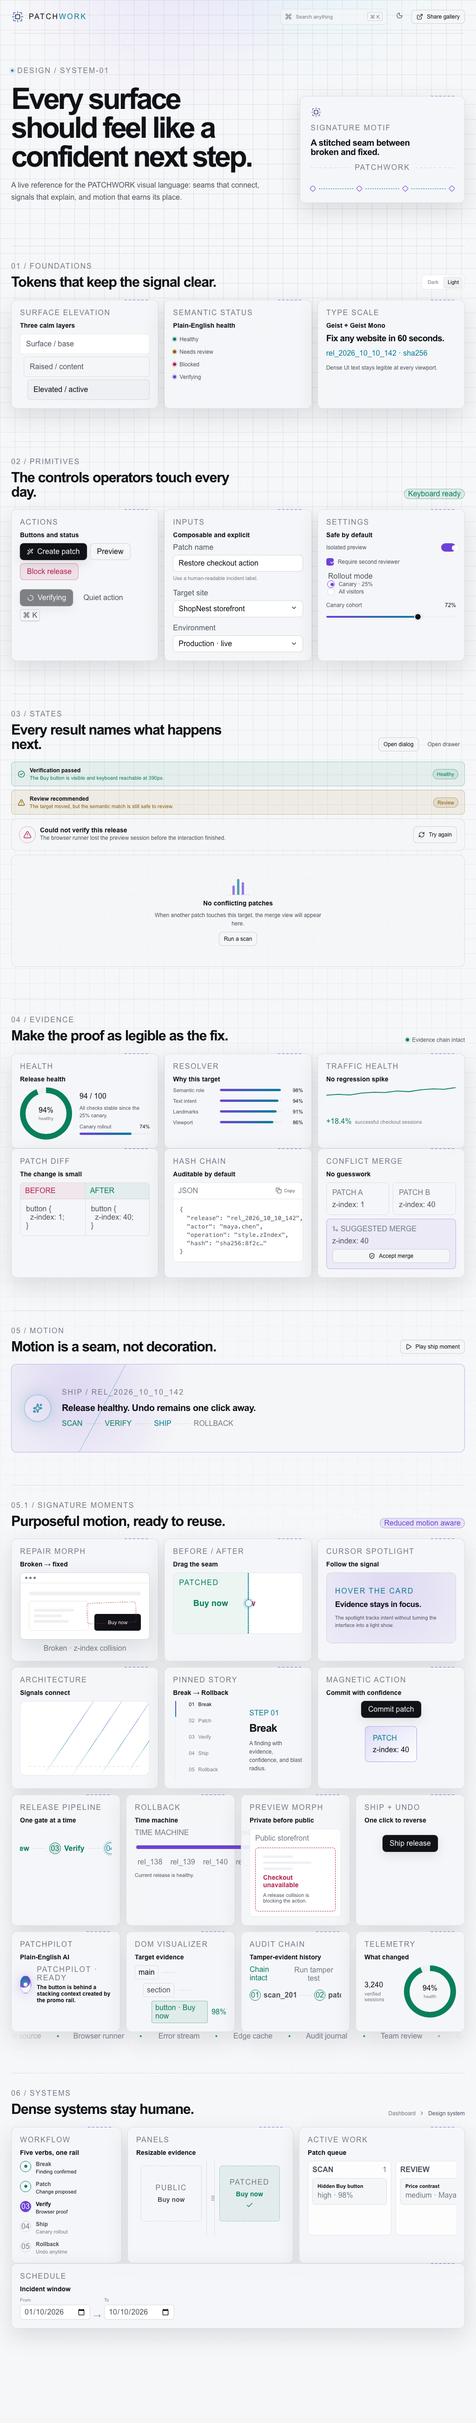
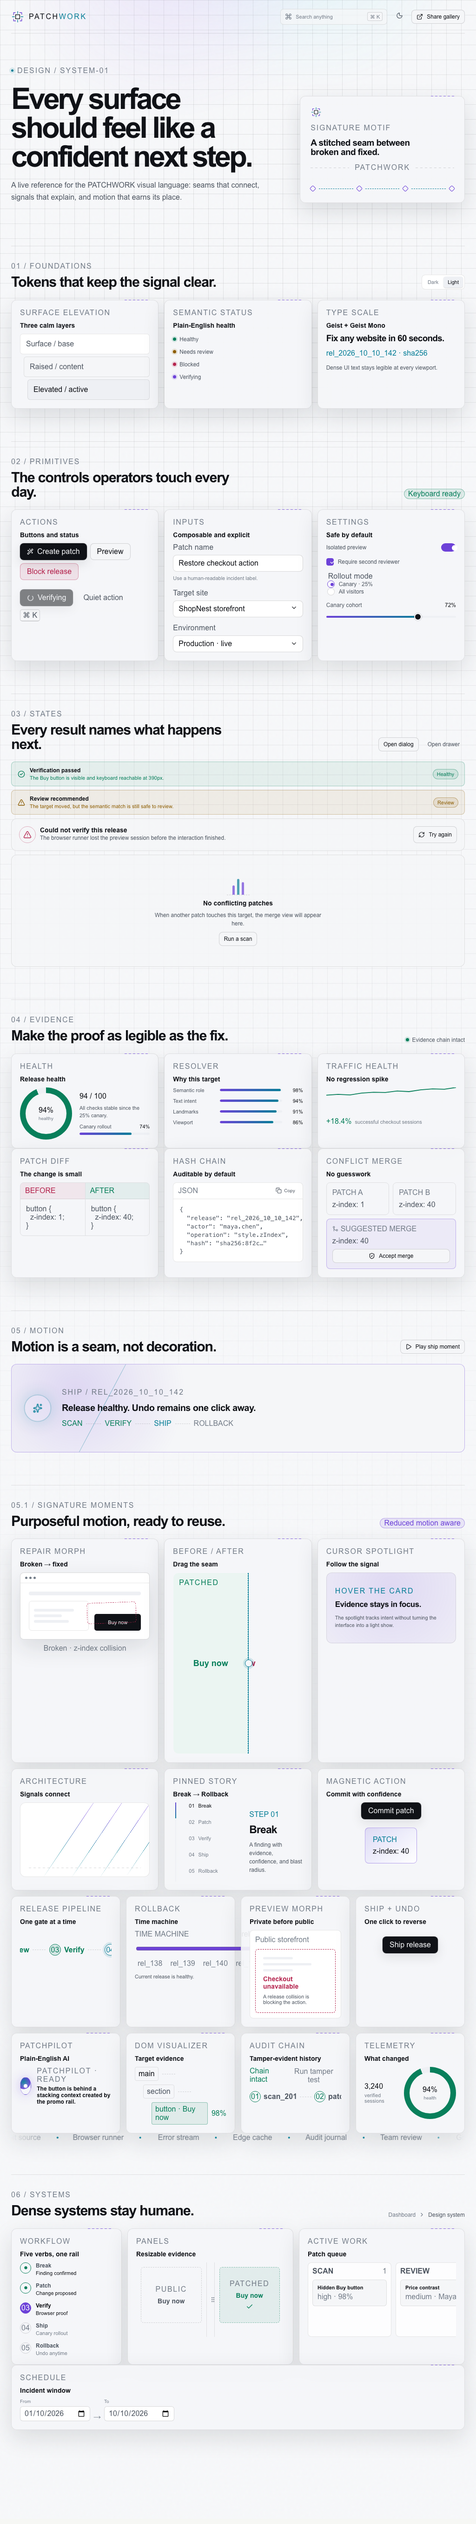
feat(web): add PATCHWORK marketing demo

diff --git a/apps/web/src/marketing.css b/apps/web/src/marketing.css
@@ -1,0 +1,13 @@
+.pw-marketing-shell { --pw-mkt-ink: #08090d; --pw-mkt-surface: #11131a; --pw-mkt-raised: #171a23; --pw-mkt-text: #f5f4fb; --pw-mkt-muted: #9a9da9; --pw-mkt-faint: #686b78; --pw-mkt-violet: #9d7cff; --pw-mkt-cyan: #68d8e9; --pw-mkt-green: #93d6a6; position: relative; overflow: hidden; min-height: 100vh; background: var(--pw-mkt-ink); color: var(--pw-mkt-text); font-family: var(--font-geist-sans), Inter, sans-serif; }
+.pw-marketing-shell::before { position: absolute; inset: 0; pointer-events: none; background-image: linear-gradient(rgba(255,255,255,.035) 1px, transparent 1px), linear-gradient(90deg, rgba(255,255,255,.035) 1px, transparent 1px); background-size: 56px 56px; mask-image: linear-gradient(to bottom, black 0, transparent 48%); content: ""; }
+.pw-marketing-shell::after { position: absolute; z-index: 0; top: 0; left: 26%; width: 600px; height: 500px; pointer-events: none; background: radial-gradient(circle, rgba(125,91,255,.18), transparent 68%); filter: blur(14px); content: ""; }
+.pw-marketing-shell > * { position: relative; z-index: 1; }.pw-marketing-nav, .pw-marketing-hero, .pw-marketing-proof-strip, .pw-marketing-demo, .pw-marketing-repair, .pw-marketing-stories, .pw-marketing-footer { width: min(1180px, calc(100% - 64px)); margin-inline: auto; }.pw-marketing-nav { display: flex; align-items: center; justify-content: space-between; min-height: 76px; border-bottom: 1px dashed rgba(255,255,255,.13); }.pw-marketing-nav nav { display: flex; gap: 28px; margin-left: 80px; }.pw-marketing-nav nav a, .pw-marketing-text-link, .pw-marketing-footer > span { color: var(--pw-mkt-muted); font-size: 12px; }.pw-marketing-nav nav a:hover, .pw-marketing-text-link:hover { color: var(--pw-mkt-text); }.pw-marketing-nav-actions { display: flex; align-items: center; gap: 20px; }.pw-marketing-logo { display: inline-flex; align-items: center; gap: 9px; color: var(--pw-mkt-text); font: 600 14px/1 var(--font-geist-mono), monospace; letter-spacing: .16em; }.pw-marketing-logo > span:last-child span { color: var(--pw-mkt-cyan); }.pw-marketing-logo-mark { display: grid; place-items: center; width: 25px; height: 25px; border: 1px solid var(--pw-mkt-violet); border-radius: 6px; transform: rotate(45deg); }.pw-marketing-logo-mark span { width: 9px; height: 9px; border: 1px solid var(--pw-mkt-cyan); background: var(--pw-mkt-violet); }.pw-marketing-button { display: inline-flex; align-items: center; justify-content: center; gap: 8px; border: 1px solid transparent; border-radius: 7px; padding: 12px 16px; background: var(--pw-mkt-text); color: #11121a; font-size: 12px; font-weight: 650; transition: transform .2s ease, box-shadow .2s ease; }.pw-marketing-button:hover { transform: translateY(-2px); box-shadow: 0 10px 28px rgba(255,255,255,.12); }.pw-marketing-button-small { padding: 9px 12px; font-size: 11px; }.pw-marketing-text-link, .pw-marketing-quiet-link { display: inline-flex; align-items: center; gap: 7px; }.pw-marketing-quiet-link { color: var(--pw-mkt-muted); font-size: 12px; }.pw-marketing-quiet-link:hover { color: var(--pw-mkt-text); }
+.pw-marketing-hero { display: grid; grid-template-columns: minmax(0, .92fr) minmax(0, 1.08fr); align-items: center; gap: 70px; padding: 112px 0 100px; }.pw-marketing-hero-copy { position: relative; z-index: 1; }.pw-marketing-kicker { display: inline-flex; align-items: center; gap: 8px; color: var(--pw-mkt-faint); font: 10px/1.2 var(--font-geist-mono), monospace; letter-spacing: .12em; text-transform: uppercase; }.pw-marketing-pulse { width: 6px; height: 6px; border-radius: 50%; background: var(--pw-mkt-cyan); box-shadow: 0 0 0 4px rgba(104,216,233,.12); }.pw-marketing-hero h1 { max-width: 620px; margin-top: 22px; color: var(--pw-mkt-text); font-size: clamp(54px, 7.7vw, 105px); font-weight: 580; letter-spacing: -.085em; line-height: .94; }.pw-marketing-hero h1 em, .pw-marketing-repair h2 em, .pw-marketing-stories h2 em { color: var(--pw-mkt-violet); font-family: Georgia, serif; font-style: italic; font-weight: 400; letter-spacing: -.06em; }.pw-marketing-hero-copy > p { max-width: 495px; margin-top: 25px; color: var(--pw-mkt-muted); font-size: 16px; line-height: 1.65; }.pw-marketing-hero-actions { display: flex; align-items: center; flex-wrap: wrap; gap: 20px; margin-top: 33px; }.pw-marketing-hero-note { display: inline-flex; align-items: center; gap: 8px; margin-top: 27px; color: var(--pw-mkt-faint); font: 10px/1.3 var(--font-geist-mono), monospace; }.pw-marketing-hero-note svg { color: var(--pw-mkt-green); }
+.pw-marketing-hero-art { position: relative; min-height: 480px; border: 1px solid rgba(255,255,255,.13); border-radius: 16px; background: radial-gradient(circle at 52% 42%, rgba(157,124,255,.18), transparent 40%), var(--pw-mkt-surface); box-shadow: 0 32px 90px rgba(0,0,0,.3); }.pw-art-grid { position: absolute; inset: 0; opacity: .45; background-image: linear-gradient(rgba(255,255,255,.06) 1px, transparent 1px), linear-gradient(90deg, rgba(255,255,255,.06) 1px, transparent 1px); background-size: 34px 34px; mask-image: radial-gradient(circle, black 20%, transparent 75%); }.pw-art-window { position: absolute; top: 86px; left: 58px; width: calc(100% - 116px); overflow: hidden; border: 1px solid rgba(255,255,255,.16); border-radius: 10px; background: #f7f8fb; color: #171923; box-shadow: 0 20px 50px rgba(0,0,0,.35); transform: rotate(-3deg); }.pw-art-window-bar { display: flex; align-items: center; gap: 5px; height: 30px; padding: 0 10px; border-bottom: 1px solid #e1e4ea; background: #eef0f5; }.pw-art-window-bar > span { width: 6px; height: 6px; border-radius: 50%; background: #ff8278; }.pw-art-window-bar > span:nth-child(2) { background: #f3c25f; }.pw-art-window-bar > span:nth-child(3) { background: #7bd39e; }.pw-art-window-bar code { margin-left: 8px; color: #969aa6; font: 8px/1 var(--font-geist-mono), monospace; }.pw-art-page { position: relative; display: grid; gap: 13px; min-height: 278px; padding: 22px 30px; }.pw-art-line { display: block; width: 42%; height: 6px; border-radius: 8px; background: #d8dce5; }.pw-art-line-wide { width: 68%; }.pw-art-line-short { width: 72px; }.pw-art-product { display: grid; grid-template-columns: 1fr 1fr; gap: 25px; align-items: center; margin-top: 8px; }.pw-art-product > div { height: 165px; border-radius: 8px; background: linear-gradient(145deg, #c8d4f7, #8a8ee2 55%, #4d486f); }.pw-art-product section { display: grid; gap: 10px; }.pw-art-price { display: block; font: 650 27px/1 var(--font-geist-mono), monospace; }.pw-art-buy { display: block; width: 130px; padding: 10px; border-radius: 4px; background: #171923; color: white; font: 10px/1 var(--font-geist-mono), monospace; text-align: center; }.pw-art-buy-broken { position: relative; }.pw-art-buy-broken::after { position: absolute; inset: -4px; border: 1px dashed #ee7c7b; border-radius: 5px; content: ""; }.pw-art-overlay { position: absolute; right: 21px; bottom: 50px; border: 1px solid #ef8d8a; border-radius: 4px; padding: 6px 8px; background: #fff1f0; color: #c75e5c; font: 8px/1 var(--font-geist-mono), monospace; }.pw-art-patch { position: absolute; right: 15px; bottom: 49px; display: flex; align-items: center; gap: 9px; border: 1px solid rgba(104,216,233,.35); border-radius: 9px; padding: 11px 12px; background: rgba(17,19,26,.92); color: var(--pw-mkt-cyan); box-shadow: 0 16px 34px rgba(0,0,0,.3); transform: translateX(16%); }.pw-art-patch span { display: grid; gap: 4px; }.pw-art-patch strong { color: var(--pw-mkt-text); font-size: 10px; }.pw-art-patch small { color: var(--pw-mkt-muted); font: 8px/1 var(--font-geist-mono), monospace; }.pw-art-seam { position: absolute; width: 80px; border-top: 1px dashed var(--pw-mkt-cyan); opacity: .8; }.pw-art-seam-one { top: 47%; left: 8%; transform: rotate(-25deg); }.pw-art-seam-two { right: 10%; top: 34%; transform: rotate(28deg); }
+.pw-marketing-proof-strip { display: grid; grid-template-columns: repeat(4, 1fr); border-top: 1px solid rgba(255,255,255,.12); border-bottom: 1px solid rgba(255,255,255,.12); }.pw-marketing-proof-strip div { display: grid; gap: 8px; padding: 23px 28px; border-right: 1px solid rgba(255,255,255,.12); }.pw-marketing-proof-strip div:last-child { border-right: 0; }.pw-marketing-proof-strip strong { color: var(--pw-mkt-text); font: 600 25px/1 var(--font-geist-mono), monospace; letter-spacing: -.06em; }.pw-marketing-proof-strip span { color: var(--pw-mkt-faint); font-size: 11px; }
+.pw-marketing-demo, .pw-marketing-repair, .pw-marketing-stories { padding: 140px 0; }.pw-marketing-section-heading { max-width: 550px; }.pw-marketing-section-heading h2 { margin-top: 17px; color: var(--pw-mkt-text); font-size: clamp(36px, 5vw, 68px); font-weight: 560; letter-spacing: -.075em; line-height: .98; }.pw-marketing-section-heading p { margin-top: 19px; color: var(--pw-mkt-muted); font-size: 14px; line-height: 1.65; }.pw-demo-frame { margin-top: 50px; overflow: hidden; border: 1px solid rgba(255,255,255,.13); border-radius: 12px; background: var(--pw-mkt-surface); box-shadow: 0 30px 70px rgba(0,0,0,.25); }.pw-demo-topbar { display: flex; align-items: center; justify-content: space-between; min-height: 49px; border-bottom: 1px solid rgba(255,255,255,.1); padding: 0 18px; color: var(--pw-mkt-muted); font: 10px/1 var(--font-geist-mono), monospace; }.pw-demo-topbar > div, .pw-demo-timer { display: inline-flex; align-items: center; gap: 8px; }.pw-demo-status-dot { width: 6px; height: 6px; border-radius: 50%; background: var(--pw-mkt-green); box-shadow: 0 0 0 4px rgba(147,214,166,.12); }.pw-demo-body { display: grid; grid-template-columns: 185px 1fr; min-height: 490px; }.pw-demo-stage-rail { display: grid; align-content: start; gap: 8px; padding: 28px 18px; border-right: 1px solid rgba(255,255,255,.1); }.pw-demo-stage { display: grid; grid-template-columns: 24px 1fr; gap: 6px 9px; padding: 11px 8px; border: 1px solid transparent; border-radius: 7px; color: var(--pw-mkt-faint); }.pw-demo-stage.is-active { border-color: rgba(157,124,255,.35); background: rgba(157,124,255,.1); color: var(--pw-mkt-text); }.pw-demo-stage > span { display: grid; place-items: center; width: 22px; height: 22px; grid-row: span 2; border: 1px solid currentColor; border-radius: 50%; font: 8px/1 var(--font-geist-mono), monospace; }.pw-demo-stage.is-active > span { color: var(--pw-mkt-cyan); }.pw-demo-stage strong { font: 10px/1 var(--font-geist-mono), monospace; }.pw-demo-stage small { color: var(--pw-mkt-faint); font-size: 9px; line-height: 1.3; }.pw-demo-workspace { display: grid; align-content: start; gap: 22px; padding: 28px; }.pw-demo-heading { display: flex; align-items: start; justify-content: space-between; gap: 20px; }.pw-demo-kicker { color: var(--pw-mkt-faint); font: 9px/1 var(--font-geist-mono), monospace; letter-spacing: .1em; }.pw-demo-heading h3 { margin-top: 10px; color: var(--pw-mkt-text); font-size: 24px; letter-spacing: -.05em; }.pw-demo-heading p { margin-top: 7px; color: var(--pw-mkt-muted); font-size: 11px; line-height: 1.45; }.pw-demo-state { display: inline-flex; align-items: center; gap: 6px; color: var(--pw-mkt-muted); font: 9px/1 var(--font-geist-mono), monospace; white-space: nowrap; }.pw-demo-state > span { width: 5px; height: 5px; border-radius: 50%; background: var(--pw-mkt-muted); }.pw-demo-state-amber > span { background: #efc56c; }.pw-demo-state-violet > span { background: var(--pw-mkt-violet); }.pw-demo-state-green > span { background: var(--pw-mkt-green); }.pw-demo-card { display: grid; grid-template-columns: minmax(260px, .92fr) minmax(220px, 1.08fr); gap: 22px; align-items: center; }.pw-demo-site-preview { position: relative; min-height: 250px; overflow: hidden; border: 1px solid rgba(255,255,255,.12); border-radius: 9px; padding: 17px; background: #f4f6f9; color: #171923; }.pw-demo-preview-label { color: #969ba6; font: 8px/1 var(--font-geist-mono), monospace; }.pw-demo-preview-content { display: grid; grid-template-columns: 1fr 1fr; gap: 16px; align-items: center; height: 190px; }.pw-demo-product-shape { display: block; height: 135px; border-radius: 8px; background: linear-gradient(140deg, #bbc9f2, #7078cb 65%, #41405f); }.pw-demo-preview-content > div { display: grid; gap: 8px; }.pw-demo-copy-line { display: block; width: 74%; height: 5px; border-radius: 6px; background: #c7ccd6; }.pw-demo-copy-short { width: 45%; }.pw-demo-preview-content strong { margin-top: 7px; font: 650 21px/1 var(--font-geist-mono), monospace; }.pw-demo-preview-content button { width: 112px; border: 0; border-radius: 4px; padding: 9px; background: #171923; color: white; font: 9px/1 var(--font-geist-mono), monospace; }.pw-demo-preview-content button.is-covered { position: relative; }.pw-demo-preview-content button.is-covered::after { position: absolute; inset: -4px; border: 1px dashed #e07c7b; border-radius: 5px; content: ""; }.pw-demo-overlay-label, .pw-demo-repair-label { position: absolute; bottom: 16px; right: 16px; display: inline-flex; align-items: center; gap: 5px; border-radius: 4px; padding: 6px 7px; font: 8px/1 var(--font-geist-mono), monospace; }.pw-demo-overlay-label { border: 1px solid #ef9a97; background: #fff1f0; color: #c25f5d; }.pw-demo-repair-label { border: 1px solid #9bd6a8; background: #edf9ef; color: #4a9c5c; }.pw-demo-explanation { display: flex; align-items: start; gap: 9px; border: 1px solid rgba(157,124,255,.26); border-radius: 8px; padding: 14px; background: rgba(157,124,255,.07); }.pw-demo-explanation-icon { color: var(--pw-mkt-violet); }.pw-demo-explanation > div { display: grid; gap: 6px; }.pw-demo-explanation strong { color: var(--pw-mkt-text); font-size: 11px; }.pw-demo-explanation p { color: var(--pw-mkt-muted); font-size: 10px; line-height: 1.45; }.pw-demo-actions { display: flex; align-items: center; gap: 17px; }
+.pw-marketing-repair { display: grid; grid-template-columns: .72fr 1.28fr; gap: 80px; align-items: center; border-top: 1px dashed rgba(255,255,255,.13); }.pw-before-after { position: relative; min-height: 390px; overflow: hidden; border: 1px solid rgba(255,255,255,.13); border-radius: 12px; background: var(--pw-mkt-raised); }.pw-before-after-state { position: absolute; inset: 0; display: grid; align-content: end; gap: 15px; padding: 22px; }.pw-before-after-state > span { position: absolute; top: 20px; left: 22px; color: var(--pw-mkt-faint); font: 9px/1 var(--font-geist-mono), monospace; }.pw-before-state { background: linear-gradient(135deg, #2d2128, #171a23 70%); }.pw-after-state { z-index: 1; width: 100%; background: linear-gradient(135deg, #1b2c2c, #171a23 70%); }.pw-repair-layout { display: grid; grid-template-columns: .95fr 1fr; gap: 19px; align-items: center; }.pw-repair-layout > div { height: 190px; border-radius: 8px; background: linear-gradient(145deg, #505576, #8f8add 58%, #c3c8f4); }.pw-repair-layout section { display: grid; gap: 14px; }.pw-repair-layout strong { color: var(--pw-mkt-text); font: 650 30px/1 var(--font-geist-mono), monospace; }.pw-repair-button { display: inline-flex; align-items: center; gap: 5px; width: max-content; border-radius: 4px; padding: 11px 13px; background: #08090d; color: var(--pw-mkt-text); font: 9px/1 var(--font-geist-mono), monospace; }.pw-before-after-state p { color: var(--pw-mkt-muted); font: 10px/1.4 var(--font-geist-mono), monospace; }.pw-before-state p { color: #efaaa6; }.pw-after-state p { color: var(--pw-mkt-green); }.pw-slider-handle { position: absolute; z-index: 2; top: 0; bottom: 0; width: 2px; background: var(--pw-mkt-text); box-shadow: 0 0 0 1px rgba(0,0,0,.18); transform: translateX(-1px); pointer-events: none; }.pw-slider-handle span { position: absolute; top: 50%; left: 50%; width: 34px; height: 34px; border: 1px solid var(--pw-mkt-text); border-radius: 50%; background: var(--pw-mkt-ink); transform: translate(-50%, -50%); }.pw-slider-handle span::before, .pw-slider-handle span::after { position: absolute; top: 15px; width: 7px; border-top: 1px solid var(--pw-mkt-text); content: ""; }.pw-slider-handle span::before { left: 6px; }.pw-slider-handle span::after { right: 6px; }.pw-slider-control { position: absolute; inset: 0; z-index: 3; overflow: hidden; opacity: 0; cursor: ew-resize; }.pw-slider-control input { width: 100%; height: 100%; cursor: ew-resize; }
+.pw-marketing-stories { display: grid; grid-template-columns: .72fr 1.28fr; gap: 80px; border-top: 1px dashed rgba(255,255,255,.13); }.pw-story-cards { display: grid; grid-template-columns: repeat(3, 1fr); gap: 10px; align-self: center; }.pw-story-cards article { position: relative; display: grid; align-content: start; gap: 13px; min-height: 235px; border: 1px solid rgba(255,255,255,.12); border-radius: 10px; padding: 18px; background: var(--pw-mkt-surface); }.pw-story-cards article > svg { color: var(--pw-mkt-cyan); }.pw-story-number { position: absolute; top: 17px; right: 18px; color: var(--pw-mkt-faint); font: 9px/1 var(--font-geist-mono), monospace; }.pw-story-cards h3 { margin-top: 27px; color: var(--pw-mkt-text); font-size: 14px; }.pw-story-cards p { color: var(--pw-mkt-muted); font-size: 11px; line-height: 1.55; }.pw-marketing-footer { display: flex; align-items: center; justify-content: space-between; min-height: 100px; border-top: 1px dashed rgba(255,255,255,.13); color: var(--pw-mkt-faint); font: 10px/1 var(--font-geist-mono), monospace; }.pw-marketing-footer > a:last-child { display: inline-flex; align-items: center; gap: 7px; color: var(--pw-mkt-muted); }.pw-marketing-footer .pw-marketing-logo-mark { width: 21px; height: 21px; }
+@media (max-width: 920px) { .pw-marketing-nav nav { margin-left: 0; }.pw-marketing-hero { grid-template-columns: 1fr; gap: 52px; padding-top: 80px; }.pw-marketing-hero-art { min-height: 430px; }.pw-marketing-repair, .pw-marketing-stories { grid-template-columns: 1fr; gap: 48px; }.pw-marketing-section-heading { max-width: 600px; } }
+@media (max-width: 680px) { .pw-marketing-nav, .pw-marketing-hero, .pw-marketing-proof-strip, .pw-marketing-demo, .pw-marketing-repair, .pw-marketing-stories, .pw-marketing-footer { width: min(100% - 32px, 560px); }.pw-marketing-nav { min-height: 68px; }.pw-marketing-nav nav, .pw-marketing-text-link { display: none; }.pw-marketing-nav-actions { margin-left: auto; }.pw-marketing-hero { padding: 72px 0 72px; }.pw-marketing-hero h1 { font-size: clamp(52px, 15vw, 78px); }.pw-marketing-hero-copy > p { font-size: 14px; }.pw-marketing-hero-art { min-height: 350px; }.pw-art-window { top: 56px; left: 24px; width: calc(100% - 48px); }.pw-art-patch { right: 8px; bottom: 25px; transform: none; }.pw-art-product { gap: 12px; }.pw-art-page { min-height: 215px; padding: 17px; }.pw-art-product > div { height: 118px; }.pw-art-buy { width: 95px; }.pw-marketing-proof-strip { grid-template-columns: repeat(2, 1fr); }.pw-marketing-proof-strip div:nth-child(2) { border-right: 0; }.pw-marketing-proof-strip div { padding: 18px 14px; }.pw-marketing-proof-strip strong { font-size: 18px; }.pw-marketing-demo, .pw-marketing-repair, .pw-marketing-stories { padding: 90px 0; }.pw-demo-body { grid-template-columns: 1fr; }.pw-demo-stage-rail { grid-template-columns: repeat(3, 1fr); border-right: 0; border-bottom: 1px solid rgba(255,255,255,.1); padding: 15px 10px; }.pw-demo-stage { grid-template-columns: 20px 1fr; gap: 5px; padding: 8px 5px; }.pw-demo-stage small { display: none; }.pw-demo-stage > span { width: 19px; height: 19px; }.pw-demo-workspace { padding: 19px; }.pw-demo-card { grid-template-columns: 1fr; }.pw-demo-site-preview { min-height: 220px; }.pw-demo-actions { align-items: start; flex-direction: column; }.pw-before-after { min-height: 310px; }.pw-repair-layout > div { height: 140px; }.pw-repair-layout strong { font-size: 22px; }.pw-story-cards { grid-template-columns: 1fr; }.pw-story-cards article { min-height: 170px; }.pw-marketing-footer { align-items: start; flex-direction: column; gap: 18px; padding: 30px 0; } }
+@media (prefers-reduced-motion: reduce) { .pw-marketing-button { transition: none; }.pw-marketing-button:hover { transform: none; } }

diff --git a/apps/web/src/marketing-page.tsx b/apps/web/src/marketing-page.tsx
@@ -1,0 +1,43 @@
+"use client";
+
+import { ArrowRight, Check, Clock3, Play, Rocket, ScanSearch, ShieldCheck, Sparkles, Undo2, WandSparkles } from "lucide-react";
+import { useEffect, useState } from "react";
+
+type DemoStep = "idle" | "scanned" | "fixed" | "shipped";
+
+const stages: ReadonlyArray<{ id: DemoStep; label: string; detail: string }> = [
+  { id: "scanned", label: "SCAN", detail: "Find the broken target" },
+  { id: "fixed", label: "FIX", detail: "Preview the inverse patch" },
+  { id: "shipped", label: "SHIP", detail: "Release with rollback" },
+];
+
+export default function MarketingPage() {
+  const [demoStep, setDemoStep] = useState<DemoStep>("idle");
+  const [startedAt, setStartedAt] = useState<number | null>(null);
+  const [elapsed, setElapsed] = useState(0);
+  const [slider, setSlider] = useState(58);
+
+  useEffect(() => {
+    if (startedAt === null || demoStep === "shipped") return;
+    const interval = window.setInterval(() => setElapsed(Math.floor((Date.now() - startedAt) / 1_000)), 1_000);
+    return () => window.clearInterval(interval);
+  }, [demoStep, startedAt]);
+
+  const beginDemo = () => { setStartedAt(Date.now()); setElapsed(0); setDemoStep("scanned"); };
+  const resetDemo = () => { setStartedAt(null); setElapsed(0); setDemoStep("idle"); };
+  const nextStep = () => setDemoStep(demoStep === "scanned" ? "fixed" : "shipped");
+  const stepIndex = demoStep === "idle" ? -1 : stages.findIndex((stage) => stage.id === demoStep);
+  const status = demoStep === "idle" ? { tone: "amber", title: "Ready to scan", detail: "Start with the seeded checkout failure." } : demoStep === "scanned" ? { tone: "amber", title: "One target found", detail: "The Add to cart button is covered by a stale promo layer." } : demoStep === "fixed" ? { tone: "violet", title: "Preview is isolated", detail: "The inverse operation is attached before any public traffic changes." } : { tone: "green", title: "Shipped safely", detail: "The canary is live and one-click rollback remains available." };
+
+  return <main className="pw-marketing-shell" id="top">
+    <header className="pw-marketing-nav"><a className="pw-marketing-logo" href="#top" aria-label="PATCHWORK home"><span className="pw-marketing-logo-mark"><span /></span><span>PATCH<span>WORK</span></span></a><nav aria-label="Marketing navigation"><a href="#workflow">Workflow</a><a href="#proof">Proof</a><a href="#stories">Teams</a></nav><div className="pw-marketing-nav-actions"><a className="pw-marketing-text-link" href="/dashboard">Open dashboard <ArrowRight size={14} aria-hidden="true" /></a><a className="pw-marketing-button pw-marketing-button-small" href="#demo">Try the demo</a></div></header>
+    <section className="pw-marketing-hero" aria-labelledby="marketing-title"><div className="pw-marketing-hero-copy"><span className="pw-marketing-kicker"><span className="pw-marketing-pulse" /> The safe hotfix control plane</span><h1 id="marketing-title">Fix any website<br /><em>in 60 seconds.</em></h1><p>PATCHWORK finds the broken element, creates a reversible patch, and ships it behind proof. No rebuild. No guesswork. Undo in one click.</p><div className="pw-marketing-hero-actions"><a className="pw-marketing-button" href="#demo"><Play size={15} fill="currentColor" aria-hidden="true" /> See the 10-second demo</a><a className="pw-marketing-quiet-link" href="/dashboard">Explore the operator workspace <ArrowRight size={14} aria-hidden="true" /></a></div><div className="pw-marketing-hero-note"><ShieldCheck size={14} aria-hidden="true" /><span>Signed patches · isolated previews · immutable audit history</span></div></div><div className="pw-marketing-hero-art" aria-label="PATCHWORK turns a broken checkout target into a verified patch" role="img"><div className="pw-art-grid" /><div className="pw-art-window"><div className="pw-art-window-bar"><span /><span /><span /><code>shopnest.example / checkout</code></div><div className="pw-art-page"><span className="pw-art-line pw-art-line-wide" /><span className="pw-art-line" /><div className="pw-art-product"><div /><section><span className="pw-art-line pw-art-line-short" /><span className="pw-art-price">$248</span><span className="pw-art-buy pw-art-buy-broken">Add to cart</span></section></div><span className="pw-art-overlay">promo-layer</span></div></div><div className="pw-art-patch"><WandSparkles size={15} aria-hidden="true" /><span><strong>PatchPilot found the seam</strong><small>Target confidence 99% · inverse ready</small></span></div><div className="pw-art-seam pw-art-seam-one" /><div className="pw-art-seam pw-art-seam-two" /></div></section>
+    <section className="pw-marketing-proof-strip" id="proof" aria-label="Measured PATCHWORK proof"><div><strong>200</strong><span>resolver scenarios</span></div><div><strong>7.2 KB</strong><span>runtime budget</span></div><div><strong>52</strong><span>automated checks green</span></div><div><strong>1 click</strong><span>to undo a release</span></div></section>
+    <section className="pw-marketing-demo" id="demo" aria-labelledby="demo-title"><div className="pw-marketing-section-heading"><span className="pw-marketing-kicker">THE PRODUCT IN 10 SECONDS</span><h2 id="demo-title">SCAN. FIX. SHIP.</h2><p>Move through a real seeded incident. Every step changes local state and explains what a visitor would see next.</p></div><div className="pw-demo-frame"><div className="pw-demo-topbar"><div><span className="pw-demo-status-dot" /><strong>ShopNest / production</strong></div><span className="pw-demo-timer"><Clock3 size={13} aria-hidden="true" /> {formatTimer(elapsed)}</span></div><div className="pw-demo-body"><div className="pw-demo-stage-rail">{stages.map((stage, index) => <div className={`pw-demo-stage${index <= stepIndex ? " is-active" : ""}`} key={stage.id}><span>{index <= stepIndex ? <Check size={12} aria-hidden="true" /> : `0${index + 1}`}</span><strong>{stage.label}</strong><small>{stage.detail}</small></div>)}</div><div className="pw-demo-workspace"><div className="pw-demo-heading"><div><span className="pw-demo-kicker">{demoStep === "idle" ? "DEMO / READY" : `DEMO / ${status.tone.toUpperCase()}`}</span><h3>{status.title}</h3><p>{status.detail}</p></div><span className={`pw-demo-state pw-demo-state-${status.tone}`}><span />{demoStep === "shipped" ? "Healthy" : demoStep === "fixed" ? "Private" : "Review"}</span></div><div className="pw-demo-card"><div className="pw-demo-site-preview"><span className="pw-demo-preview-label">LIVE SNAPSHOT</span><div className="pw-demo-preview-content"><span className="pw-demo-product-shape" /><div><span className="pw-demo-copy-line" /><span className="pw-demo-copy-line pw-demo-copy-short" /><strong>$248</strong><button type="button" className={demoStep === "scanned" ? "is-covered" : ""}>Add to cart</button></div></div>{demoStep === "scanned" ? <span className="pw-demo-overlay-label">stale promo layer · click intercepted</span> : null}{demoStep === "fixed" || demoStep === "shipped" ? <span className="pw-demo-repair-label"><Check size={12} aria-hidden="true" /> inverse verified</span> : null}</div><div className="pw-demo-explanation"><span className="pw-demo-explanation-icon">{demoStep === "shipped" ? <Rocket size={15} aria-hidden="true" /> : <Sparkles size={15} aria-hidden="true" />}</span><div><strong>{demoStep === "idle" ? "Start with the broken path" : demoStep === "scanned" ? "The scanner found one bounded failure" : demoStep === "fixed" ? "The patch is ready for human review" : "The canary is healthy"}</strong><p>{demoStep === "idle" ? "No public changes are possible from this demo. Scan first to create evidence." : demoStep === "scanned" ? "PATCHWORK matched the target semantically and measured the overlay above it." : demoStep === "fixed" ? "The change is scoped to the color property with a signed inverse operation." : "Health signals are inside policy. Rollback remains one click away."}</p></div></div></div><div className="pw-demo-actions">{demoStep === "idle" ? <button type="button" className="pw-marketing-button" onClick={beginDemo}><ScanSearch size={15} aria-hidden="true" /> Scan the incident</button> : demoStep === "shipped" ? <button type="button" className="pw-marketing-button" onClick={resetDemo}><Undo2 size={15} aria-hidden="true" /> Reset the demo</button> : <button type="button" className="pw-marketing-button" onClick={nextStep}>{demoStep === "scanned" ? "Create isolated patch" : "Ship to 25% canary"} <ArrowRight size={15} aria-hidden="true" /></button>}<a className="pw-marketing-quiet-link" href="/dashboard">Open the full workspace <ArrowRight size={14} aria-hidden="true" /></a></div></div></div></div></section>
+    <section className="pw-marketing-repair" id="workflow" aria-labelledby="repair-title"><div className="pw-marketing-section-heading"><span className="pw-marketing-kicker">ONE PATCH, TWO STATES</span><h2 id="repair-title">See the seam<br /><em>before it ships.</em></h2><p>Drag the handle across a measured visual diff. PATCHWORK keeps the old state, the proposed state, and the inverse operation attached to the same release.</p></div><div className="pw-before-after"><div className="pw-before-after-state pw-before-state"><span>BEFORE / BLOCKED</span><div className="pw-repair-layout"><div /><section><strong>$248</strong><span className="pw-repair-button">Add to cart</span></section></div><p>Click intercepted by a stale promo layer</p></div><div className="pw-before-after-state pw-after-state" style={{ clipPath: `inset(0 0 0 ${slider}%)` }}><span>AFTER / VERIFIED</span><div className="pw-repair-layout"><div /><section><strong>$248</strong><span className="pw-repair-button">Add to cart <Check size={12} aria-hidden="true" /></span></section></div><p>Target restored, inverse operation signed</p></div><div className="pw-slider-handle" style={{ left: `${slider}%` }} aria-hidden="true"><span /></div><label className="pw-slider-control" htmlFor="repair-slider">Before / after position<input id="repair-slider" type="range" min="0" max="100" value={slider} onChange={(event) => setSlider(Number(event.target.value))} /></label></div></section>
+    <section className="pw-marketing-stories" id="stories"><div className="pw-marketing-section-heading"><span className="pw-marketing-kicker">BUILT FOR INHERITED SYSTEMS</span><h2>When the original<br /><em>team is offline.</em></h2><p>Agencies, on-call engineers, and storefront owners get a shared evidence trail instead of a risky rebuild.</p></div><div className="pw-story-cards"><article><span className="pw-story-number">01</span><ScanSearch size={18} aria-hidden="true" /><h3>Find the real target</h3><p>Structural and semantic signals follow a button after a wrapper, class hash, or copy change.</p></article><article><span className="pw-story-number">02</span><WandSparkles size={18} aria-hidden="true" /><h3>Explain the fix</h3><p>PatchPilot writes the plain-English reason, blast radius, conflict, and inverse before review.</p></article><article><span className="pw-story-number">03</span><Rocket size={18} aria-hidden="true" /><h3>Ship with an undo</h3><p>Canary health, signed manifests, and the immutable audit chain keep recovery close.</p></article></div></section>
+    <footer className="pw-marketing-footer"><a className="pw-marketing-logo" href="#top" aria-label="PATCHWORK home"><span className="pw-marketing-logo-mark"><span /></span><span>PATCH<span>WORK</span></span></a><span>SCAN · FIX · SHIP · UNDO</span><a href="/dashboard">Open operator workspace <ArrowRight size={14} aria-hidden="true" /></a></footer>
+  </main>;
+}
+
+function formatTimer(seconds: number): string { return `00:${String(seconds).padStart(2, "0")}`; }

diff --git a/app/globals.css b/app/globals.css
@@ -2,6 +2,7 @@
 @import "../apps/dashboard/src/ui/tailwind-theme.css";
 @import "../apps/dashboard/src/ui/ui.css";
 @import "../apps/dashboard/src/dashboard.css";
+@import "../apps/web/src/marketing.css";
 
 :root { --ink: #10181c; --ink-soft: #5c686b; --paper: #f6f7f4; --line: #dce3de; --lime: #bbfa45; --lime-dark: #83b62c; --coral: #f17367; --coral-soft: #fff0ed; --mono: "DM Mono", monospace; --sans: "Manrope", sans-serif; --serif: "Playfair Display", Georgia, serif; }
 * { box-sizing: border-box; }

diff --git a/app/web/page.tsx b/app/web/page.tsx
@@ -1,0 +1,5 @@
+import MarketingPage from "../../apps/web/src/marketing-page";
+
+export default function WebPage() {
+  return <MarketingPage />;
+}

diff --git a/STATUS.md b/STATUS.md
@@ -50,19 +50,20 @@ Updated: 2026-10-10
 - P152–P155 are complete: verification exposes interaction, visual, accessibility, and console evidence; incidents expose observed health events, circuit-breaker posture, rollback, and replay; SHIP includes policy checks, signed manifest evidence, bounded canary controls, pause/promote/kill-switch/rollback interactions, release comparison, chain integrity, tamper testing, filters, and exportable audit evidence.
 - P156–P159 are complete: collaborators expose named ownership and PR checks; evidence reports measured resolver, SDK, regression, and test proof while explicitly marking Lighthouse as not yet measured; install provides SDK/extension steps and an environment checklist; settings provide scoped policy, allowlist, notification switches, and a reviewed local reset.
 - P160–P162 are complete: dashboard loading/error/retry, empty, success, toast, and local optimistic states are represented through the shared state primitives and route controls; all screens were captured in dark/light at desktop/tablet/mobile; source contracts cover route wiring, accessible toggles, recoverable loading/error states, and zero-console-error screenshot failures.
+- P164–P168 are complete: `/web` has a dark-first marketing shell with stitched PATCHWORK branding, the “Fix any website in 60 seconds” hero, an interactive SCAN/FIX/SHIP state machine, a real session stopwatch, draggable before/after repair evidence, and proof metrics sourced from the measured local resolver, SDK, test, and rollback contracts.
 
 ## Next
 
 1. Run the dashboard LOC gate honestly; it is not yet near 9,000 handwritten lines (P163).
-2. Build the marketing and ShopNest surfaces with real product stories toward the remaining LOC gates (P164 onward).
-3. Add the demo supervisor and final public-surface browser/Lighthouse gates after those surfaces exist (P189–P203).
-4. Keep the local demo and Sites hosting handoff validated as the public surfaces are migrated.
+2. Add marketing product-tour, security, customer, docs, and metadata states (P169–P174).
+3. Build the richer ShopNest route/release fixture toward its 2,500-line gate (P176–P188).
+4. Add the demo supervisor and final public-surface browser/Lighthouse gates after those surfaces exist (P189–P203).
 
 ## Known issues
 
 - The repository is still a single vinext app; the target workspace packages do not exist yet.
 - The current ShopNest incident surface still contains the first-pass visual language and will be migrated incrementally.
-- The final LOC gates are intentionally not met yet: current measured handwritten LOC is 9,757 overall; `apps/api` is 4,000/4,000, while dashboard, marketing, ShopNest, core, SDK, extension, verifier, AI, and tests remain below their final thresholds.
+- The final LOC gates are intentionally not met yet: current measured handwritten LOC is 9,792 overall; `apps/api` is 4,000/4,000, while dashboard (1,219/9,000), marketing (35/2,500), ShopNest (0/2,500), core, SDK, extension, verifier, AI, and tests remain below their final thresholds.
 - The currently deployed Site reflects the prior validated incident demo, not this rebuild in progress.
 - `npm install` reports 28 transitive audit findings in the existing toolchain; no production feature dependency was added yet.
 - The core safety gate is intentionally narrower than the final release gate: signing, resolver, conflict, scanner, API, and dashboard behavior remain in later groups.

diff --git a/PLAN.md b/PLAN.md
@@ -303,11 +303,11 @@ workspace where every mandatory feature is reachable and explained.
 
 ## Group 11 — `apps/web` marketing surface
 
-- [ ] P164 Create marketing app shell with shared brand tokens and seam motif. (depends: P163, D038)
-- [ ] P165 Build landing hero around “Fix any website in 60 seconds”. (depends: P164)
-- [ ] P166 Build interactive SCAN/FIX/SHIP 10-second demo with real local state. (depends: P165)
-- [ ] P167 Build before/after repair slider and time-to-fix stopwatch. (depends: P166)
-- [ ] P168 Build proof metrics from measured local evidence, not invented claims. (depends: P157, P167)
+- [x] P164 Create marketing app shell with shared brand tokens and seam motif. (depends: P163, D038)
+- [x] P165 Build landing hero around “Fix any website in 60 seconds”. (depends: P164)
+- [x] P166 Build interactive SCAN/FIX/SHIP 10-second demo with real local state. (depends: P165)
+- [x] P167 Build before/after repair slider and time-to-fix stopwatch. (depends: P166)
+- [x] P168 Build proof metrics from measured local evidence, not invented claims. (depends: P157, P167)
 - [ ] P169 Build product tour route for scan, patch, preview, verify, release, and rollback. (depends: P168)
 - [ ] P170 Build security route with threat model summary and signed-manifest story. (depends: P169)
 - [ ] P171 Build customers route with agency, storefront, portal, and legacy-app stories. (depends: P169)

diff --git a/DECISIONS.md b/DECISIONS.md
@@ -252,6 +252,17 @@ probe to the dashboard origin created avoidable 404 console noise before the
 fallback could render, which violated the zero-console-error contract and made
 the source banner less trustworthy.
 
+## D-030 — Stage marketing at `/web` during the storefront migration
+
+Decision: add the marketing landing surface at `/web` while `/` remains the
+seeded ShopNest incident fixture. The marketing surface links into `/dashboard`
+and uses the same measured proof language and seam motif.
+
+Reason: the storefront is still the verifier fixture and is intentionally
+valuable as a public incident reproduction. A separate marketing route lets the
+launch story mature without hiding or destabilizing the end-to-end bug demo;
+the default landing route can switch after the public-surface gate is complete.
+
 ## D-006 — Deterministic offline demo data
 
 Decision: seed named actors, releases, findings, timestamps, and ShopNest
